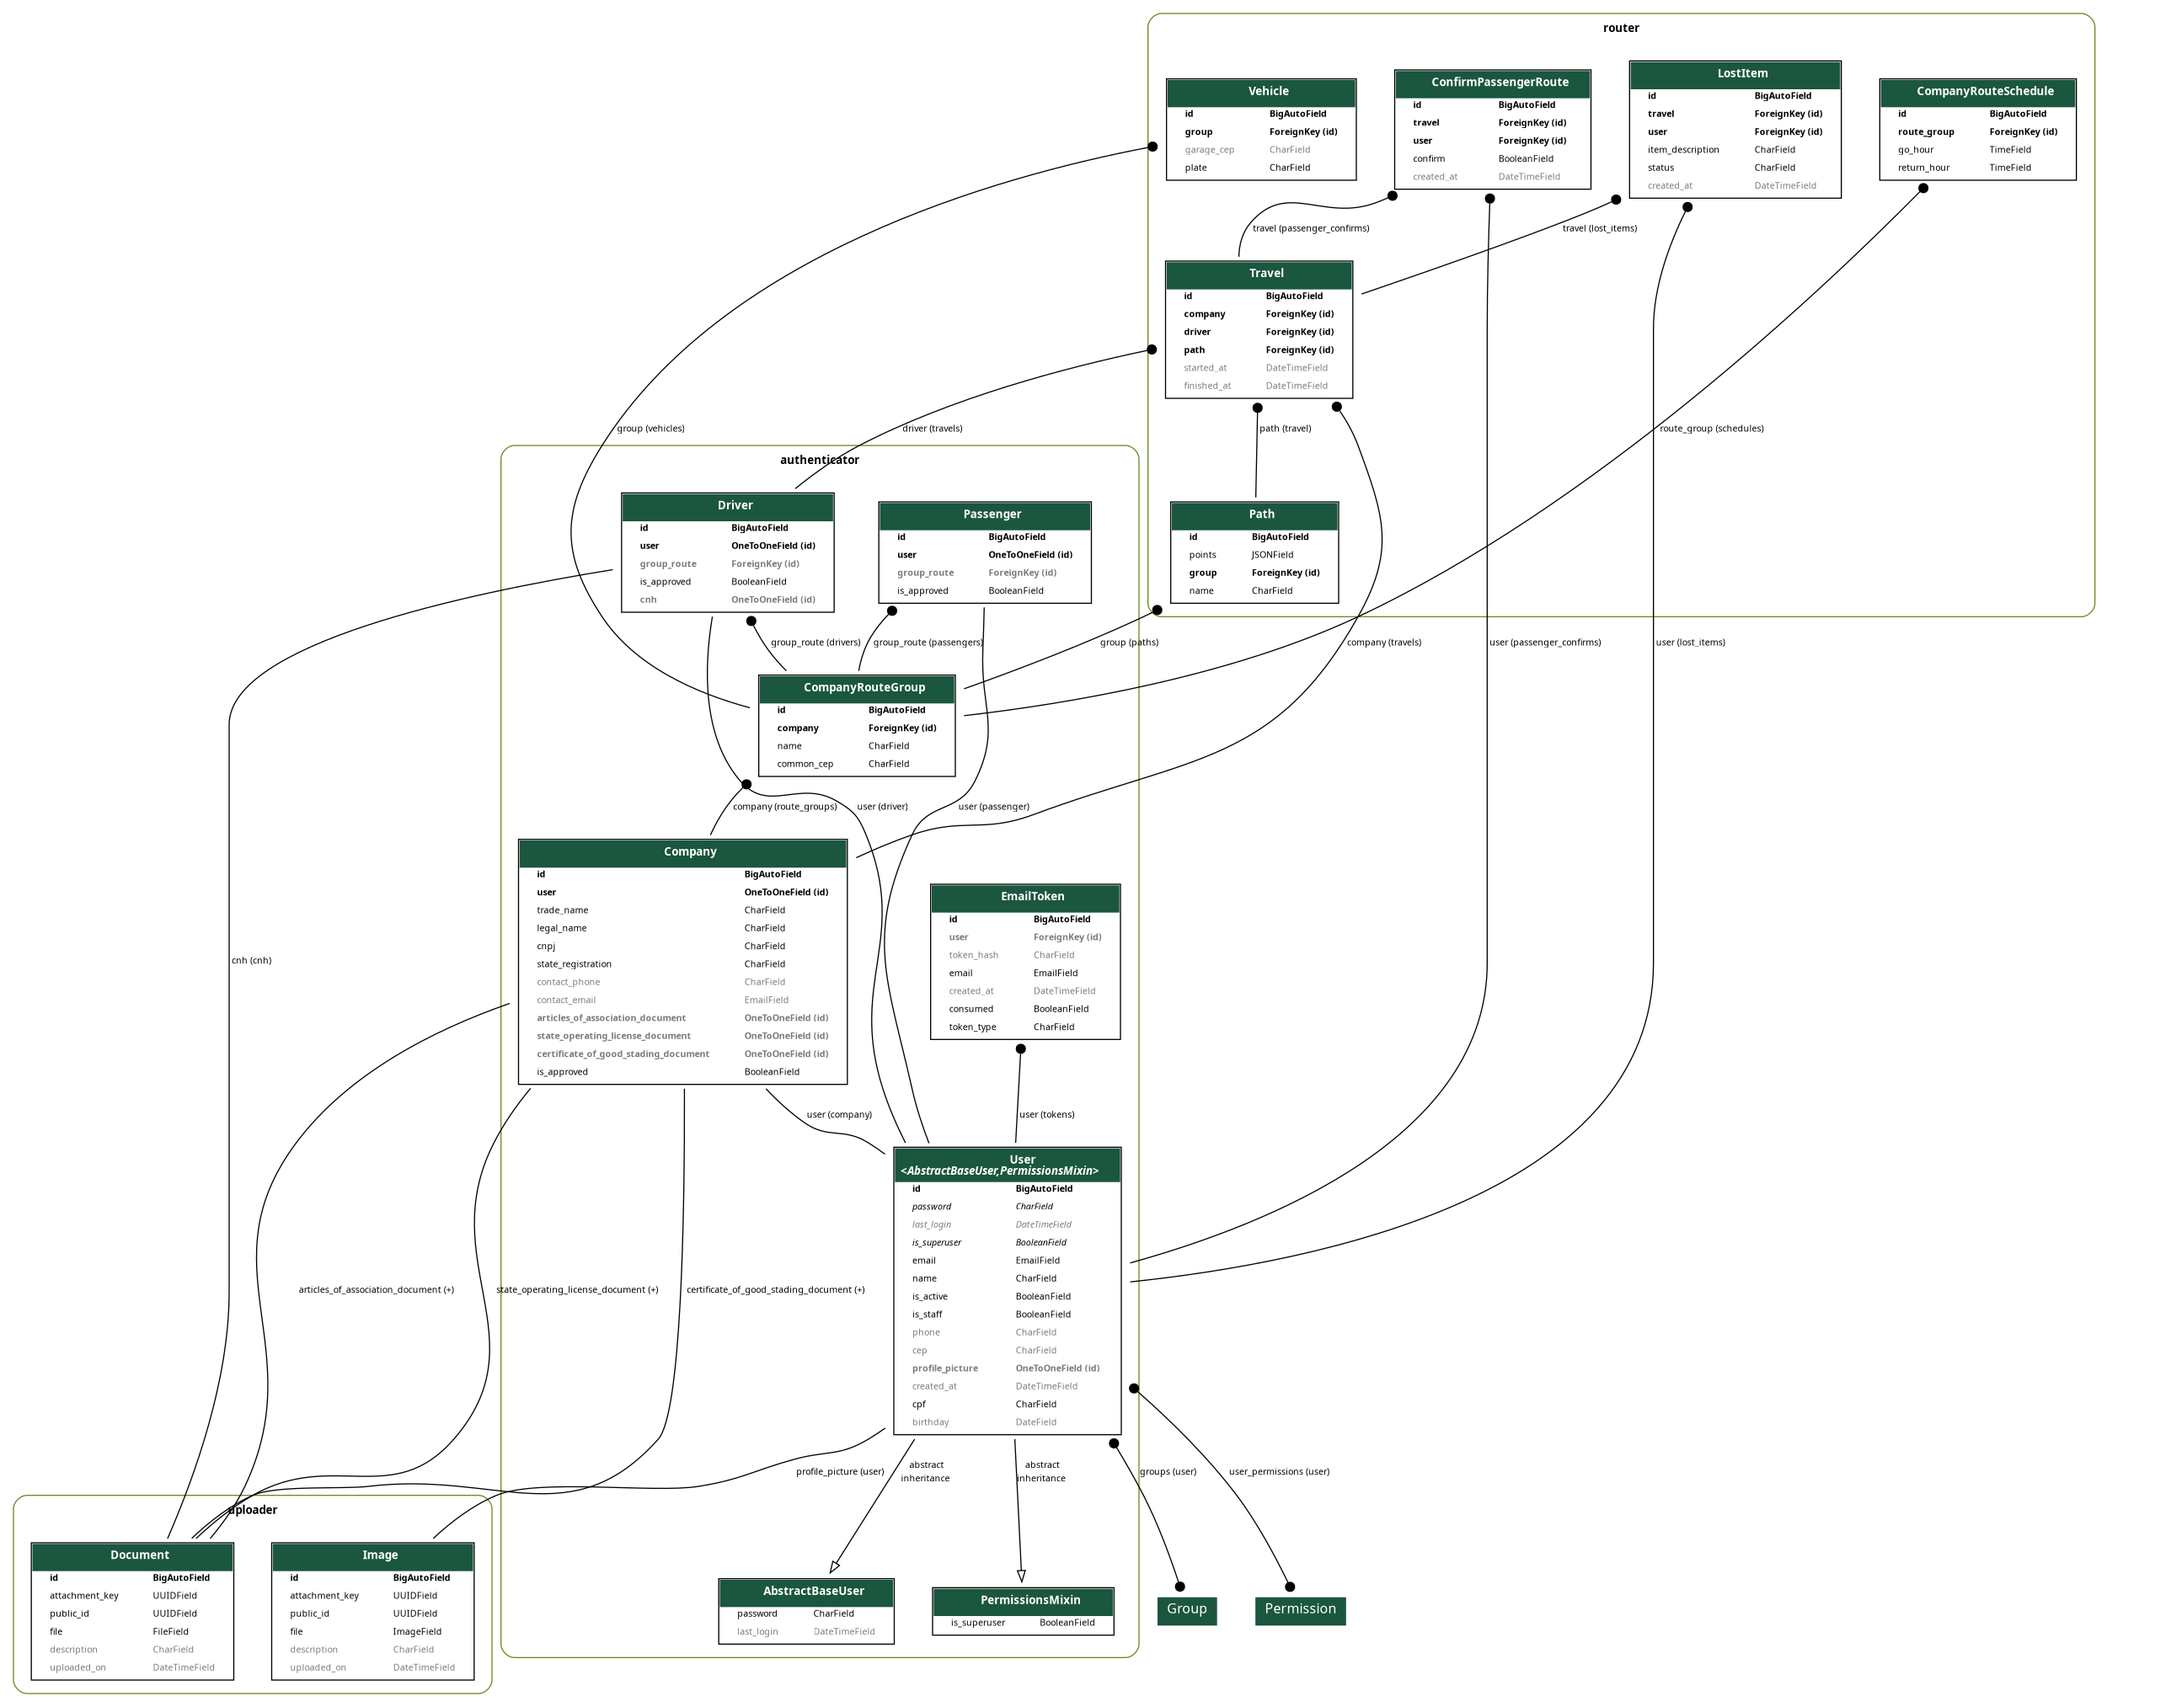
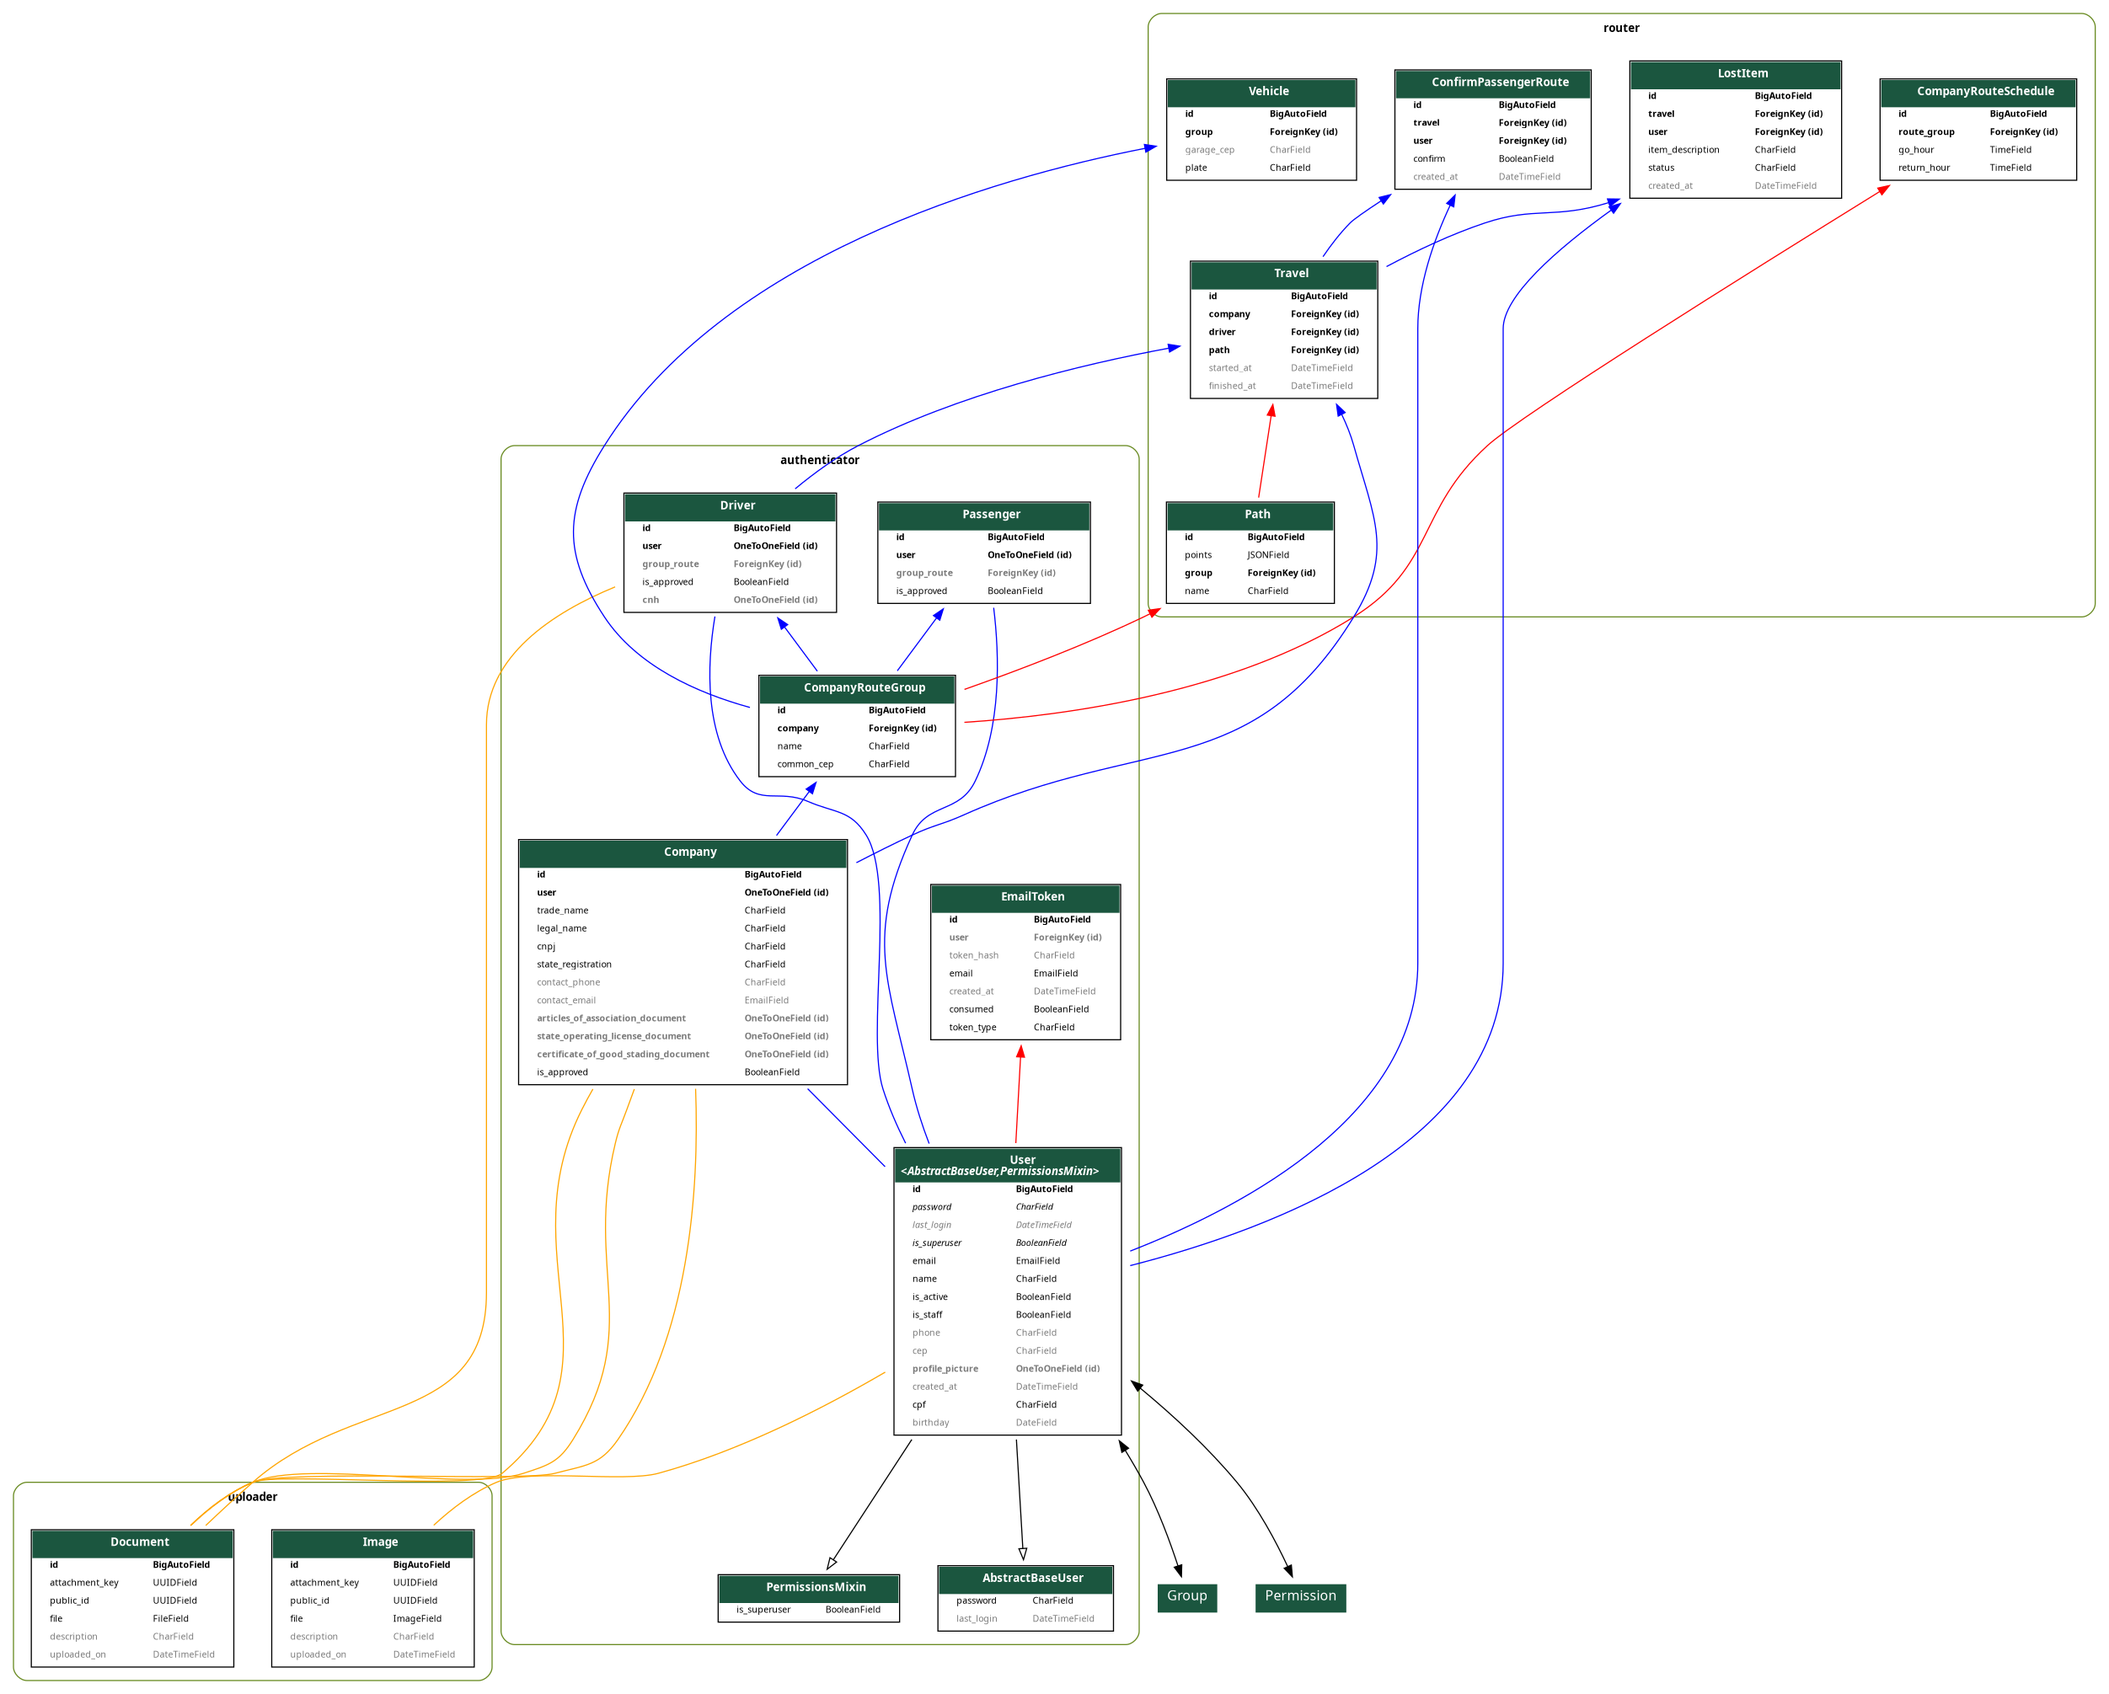
refactor: reniciando migrações no banco de desenvolvimento; adicionando e renomeando objeto JSON com dados para popular banco; MER do projeto criado pelo graph_models do django-extensions atualizado com mudanças do script post_migrate de alguns commits atrás;

diff --git a/authenticator/migrations/0001_initial.py b/authenticator/migrations/0001_initial.py
@@ -1,9 +1,8 @@
-# Generated by Django 6.0.7 on 2026-08-02 02:39
+# Generated by Django 6.0.7 on 2026-08-02 18:05
 
 import authenticator.models.user
 import authenticator.validators.cnpj
 import authenticator.validators.cpf
-import authenticator.validators.email
 import django.db.models.deletion
 from django.conf import settings
 from django.db import migrations, models
@@ -57,7 +56,7 @@ class Migration(migrations.Migration):
                 ('cnpj', models.CharField(max_length=14, unique=True, validators=[authenticator.validators.cnpj.validate_cnpj], verbose_name='CNPJ')),
                 ('state_registration', models.CharField(max_length=20, verbose_name='Inscrição Estadual')),
                 ('contact_phone', models.CharField(blank=True, max_length=11, null=True, verbose_name='Telefone de contato')),
-                ('contact_email', models.EmailField(blank=True, max_length=255, null=True, validators=[authenticator.validators.email.validate_email], verbose_name='Email de contato')),
+                ('contact_email', models.EmailField(blank=True, max_length=255, null=True, verbose_name='Email de contato')),
                 ('is_approved', models.BooleanField(db_index=True, default=False, verbose_name='Aprovada no sistema')),
                 ('articles_of_association_document', models.OneToOneField(blank=True, null=True, on_delete=django.db.models.deletion.SET_NULL, related_name='+', to='uploader.document', verbose_name='Contrato Social')),
                 ('certificate_of_good_stading_document', models.OneToOneField(blank=True, null=True, on_delete=django.db.models.deletion.SET_NULL, related_name='+', to='uploader.document', verbose_name='Certidões Negativas')),

diff --git a/router/migrations/0001_initial.py b/router/migrations/0001_initial.py
@@ -1,4 +1,4 @@
-# Generated by Django 6.0.7 on 2026-08-02 02:39
+# Generated by Django 6.0.7 on 2026-08-02 18:05
 
 import django.db.models.deletion
 from django.conf import settings
